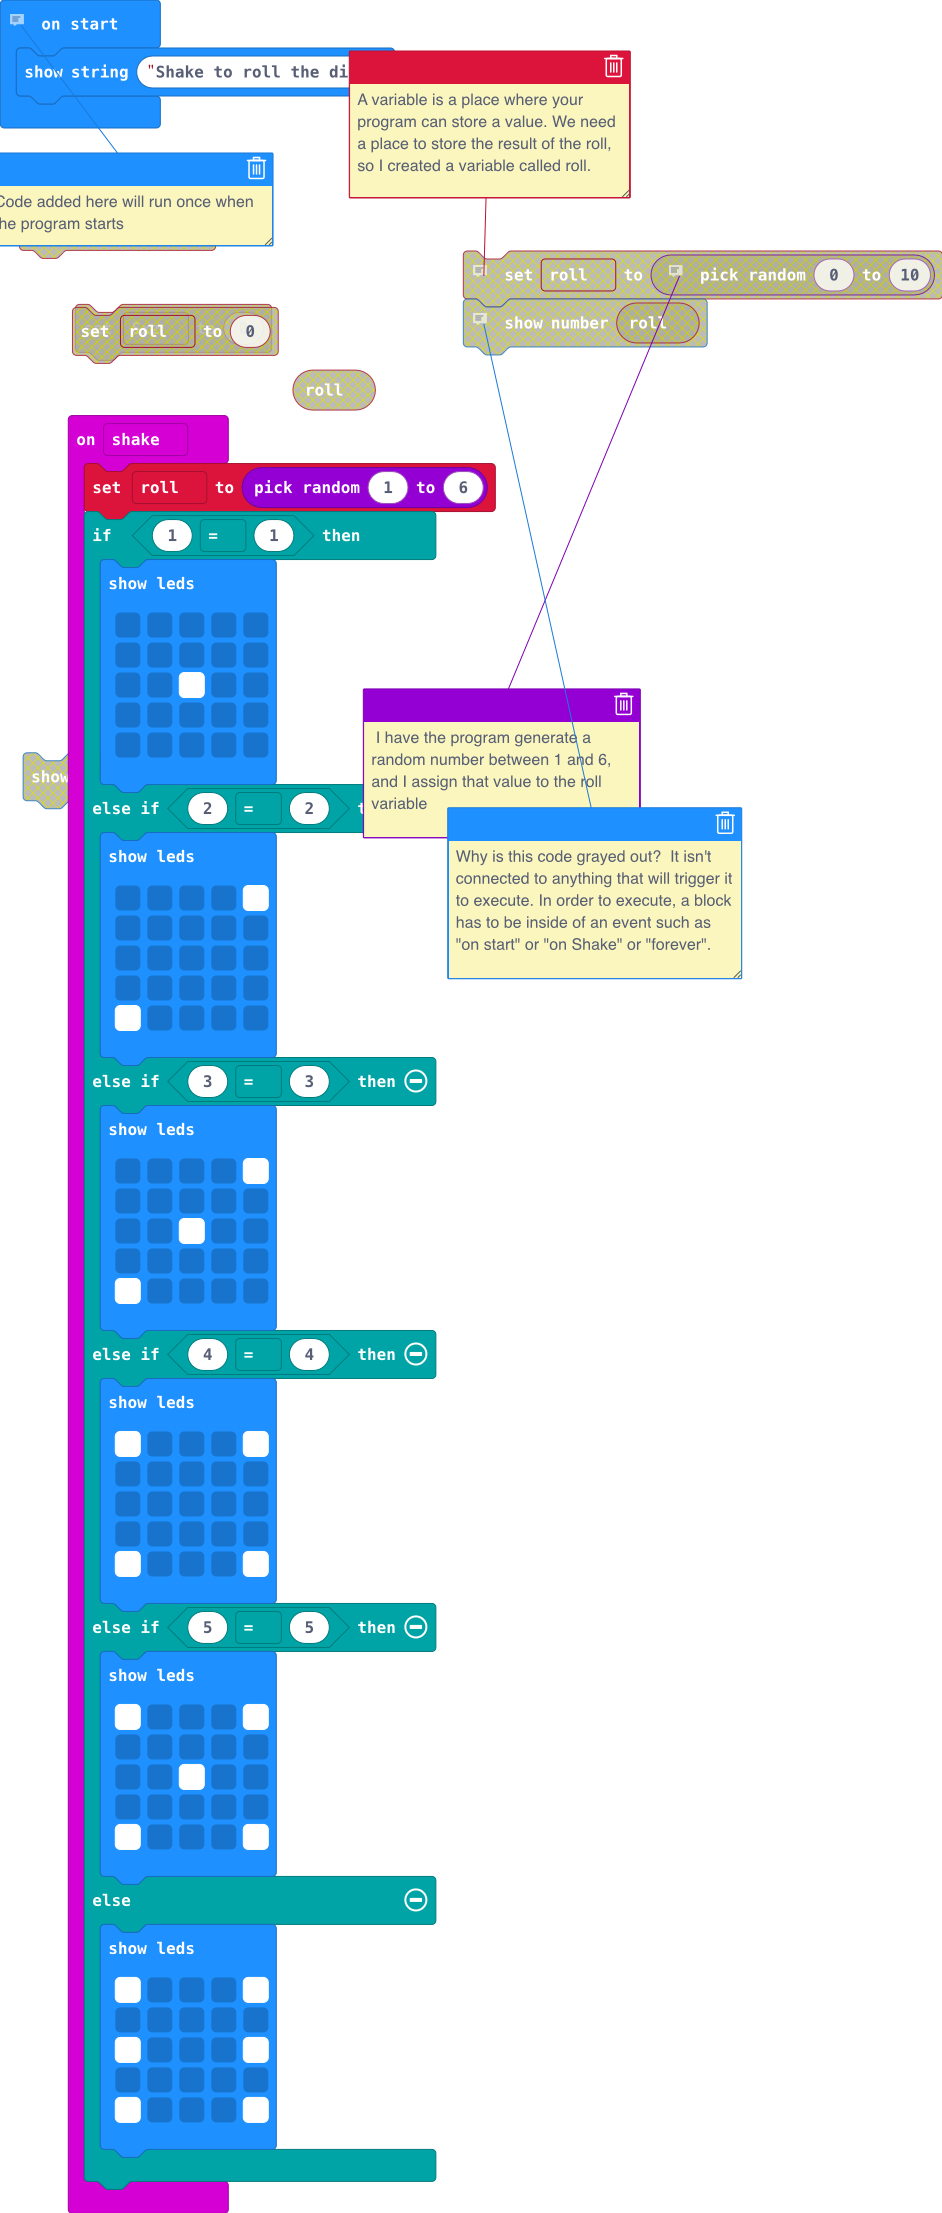
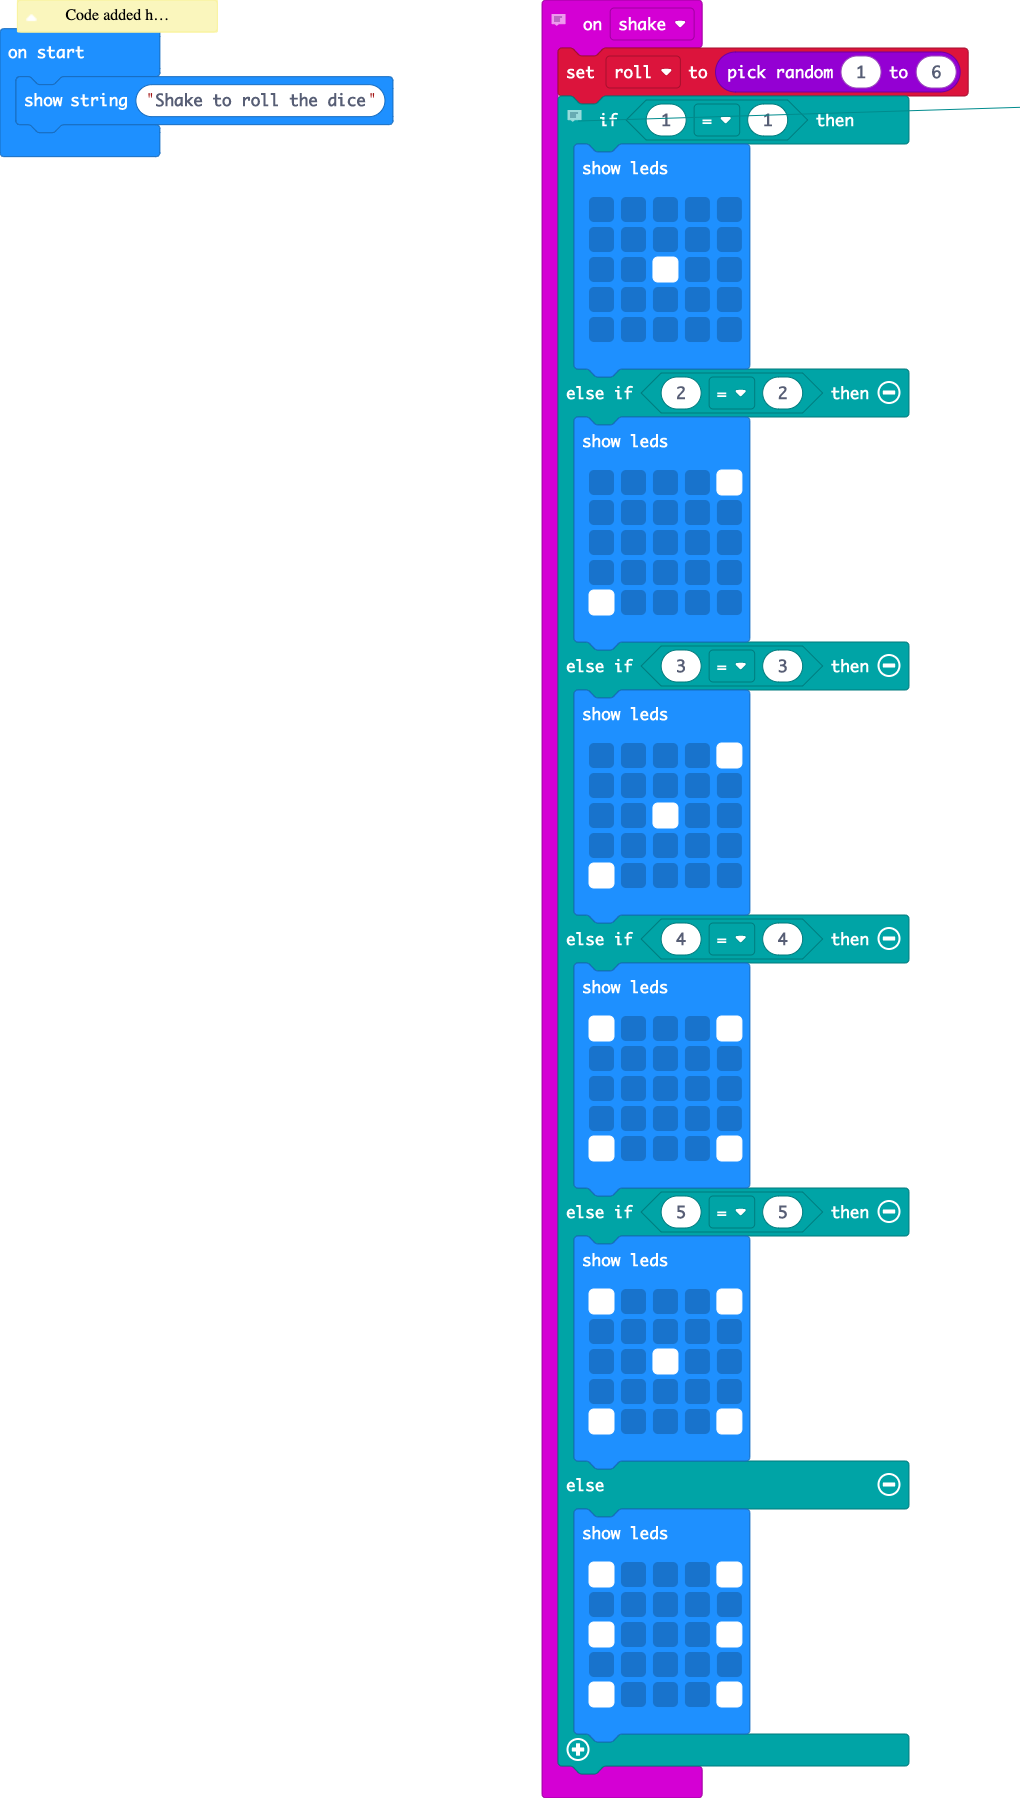
Teacher Feedback - one problem

diff --git a/main.ts b/main.ts
@@ -1,5 +1,14 @@
+// 
 input.onGesture(Gesture.Shake, function () {
     roll = randint(1, 6)
+    // Jack,
+    // You are probably seeing that your die always displays a value of 1.
+    // 
+    // Think for a moment about why that might be.
+    // 
+    // In your if/then statement, the first condition is checking IF 1 = 1. That is ALWAYS going to be true. Therefore the other "ELSE" branches are never going to run.
+    // 
+    // In each condition, you should be checking the value of the variable "roll" against each of the possible numbers.
     if (1 == 1) {
         basic.showLeds(`
             . . . . .
@@ -50,6 +59,8 @@ input.onGesture(Gesture.Shake, function () {
             `)
     }
 })
-// Code added here will run once when the program starts
+/**
+ * Code added here will run once when the program starts
+ */
 let roll = 0
 basic.showString("Shake to roll the dice")
